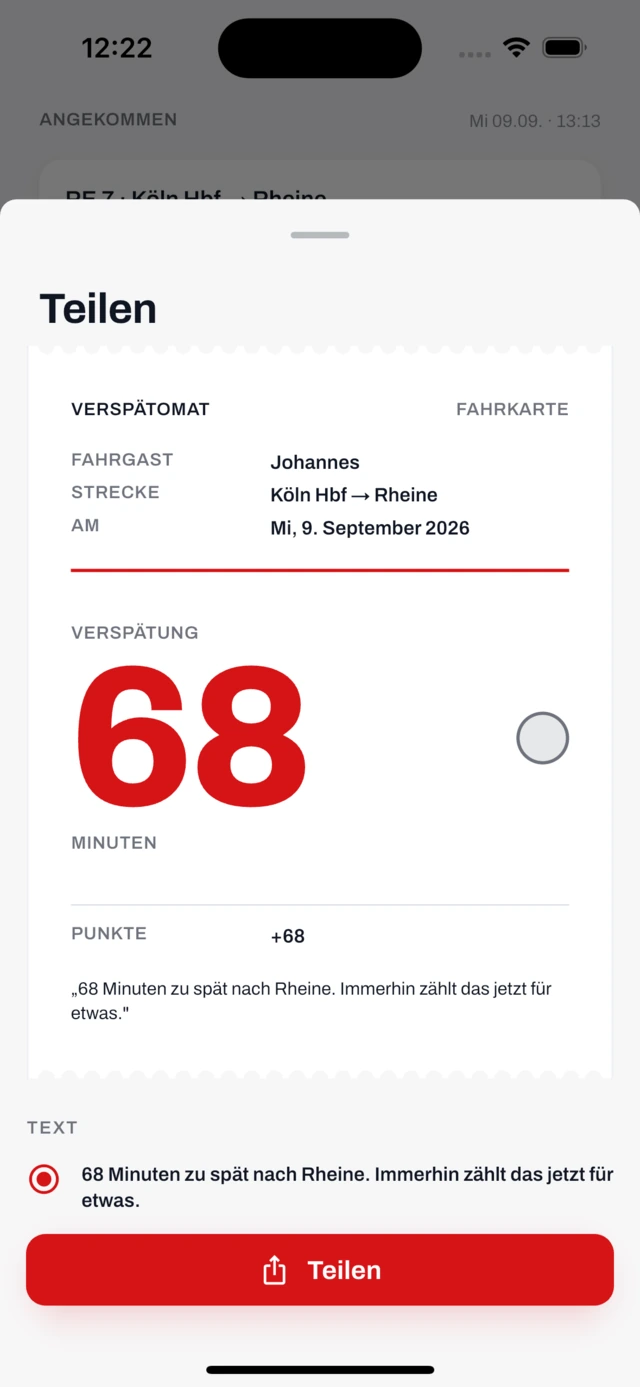
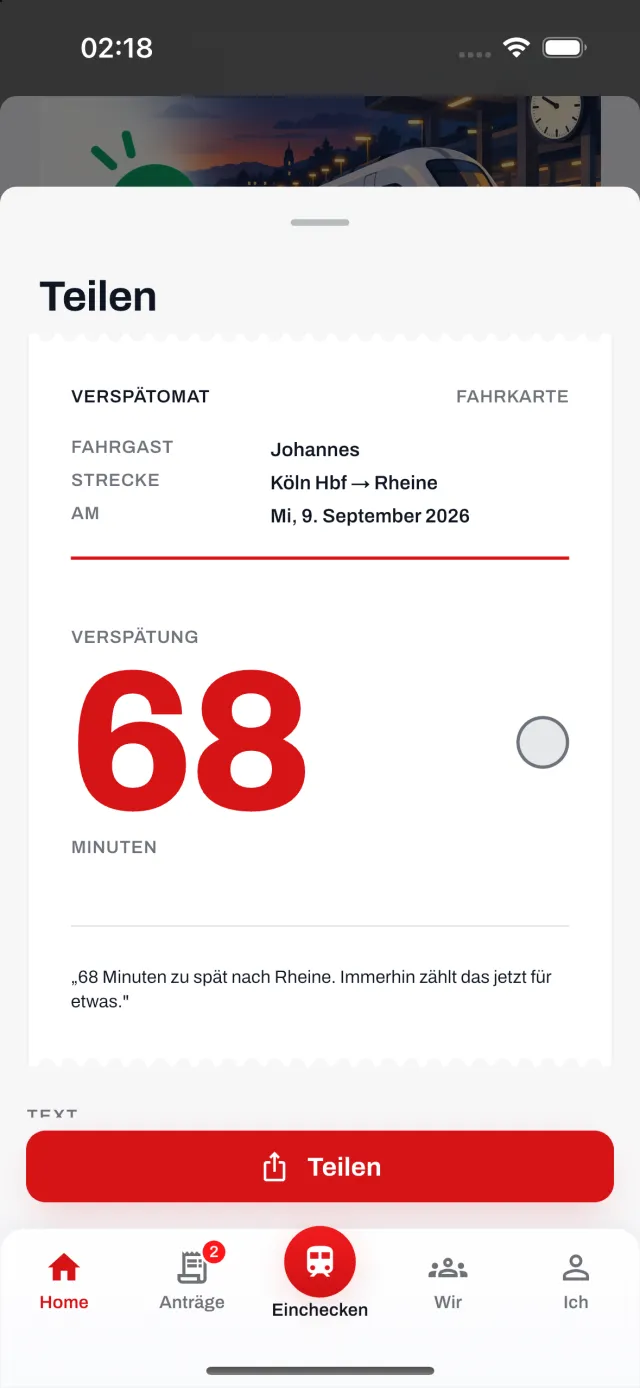
Website und Doku: nur noch Minuten (#74)
docs/47 hält die Entscheidung fest: warum, die Regel, wo die Zahl liegt,
was sich ändert. docs/12 ist nachgezogen, CLAUDE.md nennt die Regel.
Website: Texte, Rechtstexte und die Aufnahmen von Home und Fahrkarte ohne
Geduldspunkte.

Claude-Session: https://claude.ai/code/session_012DKXkSJcRX2TgT7hqozwBR

diff --git a/site/dist/datenschutz/index.html b/site/dist/datenschutz/index.html
@@ -60,7 +60,7 @@ E-Mail: info@zoom7.de. Siehe Impressum.</p>
   
   <section class="doc-abschnitt">
     <h2>Was wir speichern</h2>
-    <p>Beim Fahren: den Bahnhof, an dem du eingecheckt hast, die Position, mit der du das bestätigt hast, den Zug, den Ausstieg, die Zeiten laut Fahrplan und Live-Daten, die daraus berechneten Geduldspunkte und Abzeichen. Optional einen Anzeigenamen, den du selbst wählst.</p><p>Beim ersten Antrag, nicht früher: Name, Anschrift, deine private E-Mail-Adresse und bei Zeitkarten die Ticketnummer. Name, Anschrift und Ticketnummer stehen auf dem Antragsformular, weil das Eisenbahnunternehmen sie verlangt. Deine private E-Mail-Adresse steht nicht darauf: Im Formular steht die Verspätomat-Adresse dieses Antrags, damit die Antwort dorthin geht. Deine eigene Adresse benutzen wir nur, um dir jede Mail in Kopie zu schicken.</p><p>Pro Antrag: das Bild deines Tickets für die betroffenen Monate und deine Unterschrift (getippt oder gezeichnet). Beides landet nur im PDF und in der Mail an das Unternehmen.</p><p>Der Schriftverkehr über deine Verspätomat-Adresse: die Anträge, die du abschickst, und die Antworten des Unternehmens. Dazu unten mehr.</p><p>Einstellungen wie Ticketart, gewählter Verein, Standortmodus, stumme Bahnhöfe.</p>
+    <p>Beim Fahren: den Bahnhof, an dem du eingecheckt hast, die Position, mit der du das bestätigt hast, den Zug, den Ausstieg, die Zeiten laut Fahrplan und Live-Daten, die daraus gezählten Minuten und Abzeichen. Optional einen Anzeigenamen, den du selbst wählst.</p><p>Beim ersten Antrag, nicht früher: Name, Anschrift, deine private E-Mail-Adresse und bei Zeitkarten die Ticketnummer. Name, Anschrift und Ticketnummer stehen auf dem Antragsformular, weil das Eisenbahnunternehmen sie verlangt. Deine private E-Mail-Adresse steht nicht darauf: Im Formular steht die Verspätomat-Adresse dieses Antrags, damit die Antwort dorthin geht. Deine eigene Adresse benutzen wir nur, um dir jede Mail in Kopie zu schicken.</p><p>Pro Antrag: das Bild deines Tickets für die betroffenen Monate und deine Unterschrift (getippt oder gezeichnet). Beides landet nur im PDF und in der Mail an das Unternehmen.</p><p>Der Schriftverkehr über deine Verspätomat-Adresse: die Anträge, die du abschickst, und die Antworten des Unternehmens. Dazu unten mehr.</p><p>Einstellungen wie Ticketart, gewählter Verein, Standortmodus, stumme Bahnhöfe.</p>
   </section>
   
   <section class="doc-abschnitt">
@@ -85,7 +85,7 @@ E-Mail: info@zoom7.de. Siehe Impressum.</p>
   
   <section class="doc-abschnitt">
     <h2>Wie lange</h2>
-    <p>Fahrten, Punkte, Abzeichen und die Einträge im Konto bleiben, bis du sie löschst.</p><p>Ticketbilder, Unterschrift und die Anhänge der Antworten löschen wir, sobald ein Antrag abgeschlossen ist (bestätigt, abgelehnt oder verfallen). Wenn du unter Einstellungen „Korrespondenz nach Abschluss behalten“ einschaltest, bleiben sie, bis du es ausschaltest oder alles löschst.</p><p>Offene Ansprüche verfallen drei Monate nach der Fahrt; danach steht nur noch der Eintrag „verfallen“ im Konto.</p>
+    <p>Fahrten, Minuten, Abzeichen und die Einträge im Konto bleiben, bis du sie löschst.</p><p>Ticketbilder, Unterschrift und die Anhänge der Antworten löschen wir, sobald ein Antrag abgeschlossen ist (bestätigt, abgelehnt oder verfallen). Wenn du unter Einstellungen „Korrespondenz nach Abschluss behalten“ einschaltest, bleiben sie, bis du es ausschaltest oder alles löschst.</p><p>Offene Ansprüche verfallen drei Monate nach der Fahrt; danach steht nur noch der Eintrag „verfallen“ im Konto.</p>
   </section>
   
   <section class="doc-abschnitt">

diff --git a/site/dist/index.html b/site/dist/index.html
@@ -147,7 +147,7 @@
 </span>
         <div>
           <h3>Ankommen</h3>
-          <p>Jede Minute wird gezählt. Unter 60 Minuten gibt es Geduldspunkte. Ab 60 Minuten einen Anspruch.</p>
+          <p>Jede Minute wird gezählt. Ab 60 Minuten entsteht ein Anspruch.</p>
         </div>
       </li>
       
@@ -182,7 +182,7 @@
   </svg>
 </span>
       <h3>Deine Verspätung bewirkt etwas.</h3>
-      <p>Unter 60 Minuten gibt es Geduldspunkte. Ab 60 Minuten einen gesetzlichen Anspruch — und der geht an einen Verein, nicht an uns.</p>
+      <p>Jede Minute zählt für dich. Ab 60 Minuten entsteht ein gesetzlicher Anspruch — und der geht an einen Verein, nicht an uns.</p>
     </aside>
   </div>
 </section>
@@ -195,7 +195,7 @@
   <div class="streifen">
     
     <figure class="schuss">
-      <img src="/shots/bahnsteig.webp" alt="Der Home-Screen: 1.298 Minuten, die du selbst gewartet hast, auf einer dunklen Tafel mit einem Knopf „Teilen“, darunter der rote Knopf „Einchecken“ mit den drei Fragen „Von wo, wohin, welcher Zug“ und die Geduldspunkte dieser Woche, +96, als sieben Balken von Montag bis Sonntag." width="640" height="1387" loading="lazy" decoding="async">
+      <img src="/shots/bahnsteig.webp" alt="Der Home-Screen: 1.298 Minuten, die du selbst gewartet hast, auf einer dunklen Tafel mit einem Knopf „Teilen“, darunter der rote Knopf „Einchecken“ mit den drei Fragen „Von wo, wohin, welcher Zug“ und die Minuten dieser Woche, +96, als sieben Balken von Montag bis Sonntag." width="640" height="1387" loading="lazy" decoding="async">
       <figcaption>Ein Knopf, drei Fragen</figcaption>
     </figure>
     
@@ -210,7 +210,7 @@
     </figure>
     
     <figure class="schuss">
-      <img src="/shots/karte.webp" alt="Eine Fahrkarte zum Teilen: 68 Minuten Verspätung als große rote Zahl, darunter die Strecke Köln Hbf → Rheine, das Datum und der Satz „68 Minuten zu spät nach Rheine. Immerhin zählt das jetzt für etwas.“" width="640" height="1387" loading="lazy" decoding="async">
+      <img src="/shots/karte.webp" alt="Eine Fahrkarte zum Teilen: oben die Strecke Köln Hbf → Rheine und das Datum, darunter 68 Minuten Verspätung als große rote Zahl und der Satz „68 Minuten zu spät nach Rheine. Immerhin zählt das jetzt für etwas.“" width="640" height="1387" loading="lazy" decoding="async">
       <figcaption>Die Fahrkarte zum Teilen</figcaption>
     </figure>
     
@@ -296,7 +296,7 @@
     
     <details>
       <summary>Ab wann gibt es überhaupt Geld?</summary>
-      <p>Ab 60 Minuten Verspätung am Ziel: 25 % des Fahrpreises. Ab 120 Minuten: 50 %. Darunter gibt es keinen gesetzlichen Anspruch — dafür Geduldspunkte.</p>
+      <p>Ab 60 Minuten Verspätung am Ziel: 25 % des Fahrpreises. Ab 120 Minuten: 50 %. Darunter gibt es keinen gesetzlichen Anspruch — gezählt werden deine Minuten trotzdem.</p>
     </details>
     
     <details>

diff --git a/site/dist/loeschen/index.html b/site/dist/loeschen/index.html
@@ -47,7 +47,7 @@
   
   <section class="doc-abschnitt">
     <h2>In der App</h2>
-    <p>Einstellungen → Deine Daten → „Alles löschen“. Das löscht dein Konto und alles, was daran hängt: Fahrten, Verspätungen, Geduldspunkte, Anträge, hochgeladene Fahrkarten, deine Unterschrift, deine Adressdaten und deine Verspätomat-Mailadresse. Der Vorgang läuft sofort und ist nicht rückgängig zu machen.</p><p>Es gibt kein Konto bei uns, das danach noch übrig wäre: Verspätomat kennt dich nur über dein Gerätekonto.</p>
+    <p>Einstellungen → Deine Daten → „Alles löschen“. Das löscht dein Konto und alles, was daran hängt: Fahrten, Verspätungen, Minuten, Anträge, hochgeladene Fahrkarten, deine Unterschrift, deine Adressdaten und deine Verspätomat-Mailadresse. Der Vorgang läuft sofort und ist nicht rückgängig zu machen.</p><p>Es gibt kein Konto bei uns, das danach noch übrig wäre: Verspätomat kennt dich nur über dein Gerätekonto.</p>
   </section>
   
   <section class="doc-abschnitt">

diff --git a/docs/47-nur-minuten.md b/docs/47-nur-minuten.md
@@ -1,0 +1,58 @@
+# 47 — Nur Minuten
+
+Entschieden am 29. September 2026, Issue #74. Bis dahin gab es zwei Zahlen für dasselbe: Minuten
+und Geduldspunkte. Jetzt gibt es nur noch Minuten — in der App, auf der Website, in den
+Mitteilungen und in dieser Doku.
+
+## Warum
+
+Geduldspunkte waren „1 Punkt pro Minute Verspätung" (docs/12). Sie waren also Minuten unter
+anderem Namen, mit zwei Ausnahmen, die kaum jemand kannte. Zwei Zahlen, die fast immer gleich
+sind und manchmal nicht, lesen sich als Fehler: Home zeigte 158 Minuten, Ich 146 Geduldspunkte
+(#71). Und ein Punkt bedeutet einem Menschen nichts, eine Minute schon — jeder weiß, wie sich 68
+Minuten am Bahnsteig anfühlen. Die Abzeichen stehen für sich und brauchen keine Währung daneben.
+
+## Die Regel (`backend/src/rules.rs`, `counted_minutes`)
+
+Eine Fahrt zählt ihre **Verspätung am Ziel**, ab Minute 1. Eine Reise mit Umstieg zählt einmal,
+am Ziel, nicht pro Zug (docs/17), gedeckelt um eine selbst gewählte Pause (docs/21 §2).
+
+Die zwei Ausnahmen der Punkte sind Minuten-Regeln geworden:
+
+| Fall | Vorher | Jetzt |
+|---|---|---|
+| **Ausfall** | 60 Punkte | zählt mit mindestens **60 Minuten** — das Recht behandelt einen Ausfall wie eine Stunde Verspätung, und ein Zug, der nicht fuhr, hat keine eigene Verspätung. Die App sagt „60 Minuten angerechnet". |
+| **Nachtrag** (Fahrt nachträglich eingetragen) | 1 Punkt | zählt **seine Minuten** für einen selbst, steht als „selbst eingetragen" da und **nicht in den Ranglisten** — wie jede Fahrt ohne Standortbestätigung. Das ist der Schutz gegen erfundene Verspätungen, und er braucht keine zweite Währung. |
+| **Aufgegeben** (docs/22 §1) | Punkte fürs Warten | zählt das **Warten** auf dem Zug, auf dem aufgegeben wurde. Einen Anspruch gibt es nicht. |
+| **Nicht mitgefahren** | nichts | nichts |
+
+Die Stufen (Frischer Fahrgast … Bahnsteig-Buddha) haben ihre Schwellen jetzt in Minuten: 60, 240,
+600, 1.500, 4.000. Die Ranglisten zählen die Minuten der letzten sieben Tage, nur Fahrten mit
+Standortbestätigung.
+
+## Wo die Zahl liegt
+
+- **Datenbank:** Die Spalten `rides.points` und `journeys.points` behalten ihren Namen — so bricht
+  keine Abfrage und kein älterer Build — und tragen die **gezählten Minuten** (per
+  `comment on column` dokumentiert, Migration 0042). Die Sicht `waited_minutes` (Migration 0041,
+  #71) liest dieselbe Spalte: Jede Zahl, die „Minuten" heißt, ist eine Zahl.
+- **Draht:** Die Felder heißen `minutes_total`, `minutes_this_week`, `minutes_last_week`,
+  `minutes_by_day`, `level.minutes_to_next`, `counted_minutes` (Fahrt und Reise) und `minutes`
+  (Ranglisten). Die alten `points_*`-Felder bleiben mit denselben Werten, solange ein älterer Build
+  in TestFlight oder im Store ist (Hausregel: nur hinzufügen).
+- **App:** liest die `minutes_*`-Felder, sonst die alten eines Servers von vorher.
+
+## Was sich für Menschen ändert
+
+- Ich zeigt oben „Minuten gewartet" statt Geduldspunkte; Home und Ich zeigen dieselbe Zahl.
+- Die Ankunft sagt „68 Minuten. Alle gezählt." statt „68 Minuten. 68 Geduldspunkte.", ein Ausfall
+  „Ausgefallen. 60 Minuten angerechnet."
+- Ein Nachtrag bringt seine Minuten, nicht mehr einen Punkt. Alte Nachträge wurden umgerechnet.
+- Die Teilen-Karte zeigt nur noch die Minuten.
+- Mitteilungen: „68 Minuten gewartet." statt „68 Geduldspunkte.".
+
+## Ältere Dokumente
+
+Die Dokumente vor diesem sprechen von Geduldspunkten und Punkten. Sie sind Entscheidungen ihrer
+Zeit und bleiben so stehen; gemeint sind die gezählten Minuten dieses Dokuments. Maßgeblich für
+die Regeln ist docs/12, das nachgezogen ist.

diff --git a/docs/12-gamification.md b/docs/12-gamification.md
@@ -1,19 +1,23 @@
 # 12 — Gamification
 
-## Two currencies
+## Two figures: minutes and euros
 
-| Currency | Who earns it | How | Shown where |
+Since 29 September 2026 (#74, docs/47) there are no Geduldspunkte. There were never more than
+minutes under a second name.
+
+| Figure | Who earns it | How | Shown where |
 |---|---|---|---|
-| **Geduldspunkte** | Everyone, on every delayed ride | 1 point per minute late at the exit stop, from minute 1. A cancellation that costs you the hour counts as 60. Full points only when checked in before or during the ride; a later "Nachtrag" earns 1 point. | Home, profile, boards, community |
+| **Minuten** | Everyone, on every delayed ride | The delay at the destination, from minute 1, once per journey (docs/17). A cancellation counts at least 60. A journey given up counts the waiting (docs/22 §1). A ride entered afterwards ("Nachtrag") counts its minutes, marked „selbst eingetragen", and never ranks. | Home, profile, boards, community, sharing |
 | **Euro** | Few, on 60+ minute delays and on ordinary-ticket claims | The statutory claim amount, shown as "Anspruch" until sent, "eingereicht" after sending, "bestätigt" after the railway's reply | Ledger, NGO page, community |
 
-Minutes are the loud metric. Euros are the true metric. The community screen shows both, never blended.
+Minutes are the loud metric. Euros are the true metric. The community screen shows both, never
+blended. The rule is `rules::counted_minutes`; the backend owns it.
 
 ## Levels
 
 Named after where the customer is standing. Purely for the profile; no unlocks gated behind them.
 
-| Level | Points | Name |
+| Level | Minutes | Name |
 |---|---|---|
 | 1 | 0 | Frischer Fahrgast |
 | 2 | 60 | Bahnsteigkante |
@@ -41,7 +45,7 @@ Named after real causes and situations. Each badge names a thing that actually h
 | Bestätigt | first railway reply uploaded |
 | Deutschlandreise | check-ins in five different Bundesländer |
 | Stammgleis | 50 rides on the same line |
-| Geduld ist eine Tugend | 1,000 Geduldspunkte |
+| 1.000 Minuten … 64.000 Minuten | 1,000 minutes counted, then doubling |
 
 Badges are shown once, on the arrival screen, then live quietly on the profile. They can be shared as a card.
 
@@ -52,12 +56,12 @@ Badges that depend on the operator's stated cause (Stellwerksstörung, Personen 
 - **Meine Linie**: the seven-day patience board for one line, e.g. "RE 7 Krefeld–Rheine". Winnable, recognisable, the one people screenshot.
 - **Meine Stadt**: seven-day board per city.
 - **Deutschland**: for the curious. Never the default.
-- Boards rank only rides verified by a location fix at the station. Unverified rides still earn points and euros for the customer; they just do not rank.
+- Boards rank the counted minutes of the last seven days, and only rides verified by a location fix at the station. Unverified rides (and every Nachtrag) still count their minutes and euros for the customer; they just do not rank.
 - Everyone can hide themselves from boards with one switch.
 
 ## What we deliberately do not do
 
-- No buying points, no premium tiers, no boosts.
+- No buying minutes, no premium tiers, no boosts.
 - No teams for now. Nothing in the product points at them, not even the statistics; they can come back when there are enough customers on one line to make one.
 - No NGO campaigns with goals and deadlines. The confirmed total per NGO is the story; a finish line would need NGO-side tooling and invites fake urgency.
 - No employer matching. A sponsor's promise would be a second kind of money in a ledger that is honest precisely because it holds only one.

diff --git a/CLAUDE.md b/CLAUDE.md
@@ -1,6 +1,6 @@
 # Verspätomat — working notes for Claude and humans
 
-Gamified train check-in app for Germany. Delays earn Geduldspunkte; delays of 60 minutes or more become statutory Fahrgastrechte claims whose payee is a partner NGO. The app is a messenger, never a representative: it fills and relays, it never writes to a railway on its own. Product docs live in `docs/` (start at `docs/README.md`); the design language is `app/STYLE.md` (paper white, ink, one red, Archivo, the Bahnhofsuhr).
+Gamified train check-in app for Germany. Every minute of delay counts — minutes are the one figure, there are no points (docs/47); delays of 60 minutes or more become statutory Fahrgastrechte claims whose payee is a partner NGO. The app is a messenger, never a representative: it fills and relays, it never writes to a railway on its own. Product docs live in `docs/` (start at `docs/README.md`); the design language is `app/STYLE.md` (paper white, ink, one red, Archivo, the Bahnhofsuhr).
 
 ## Layout
 
@@ -72,7 +72,7 @@ Dart-defines: `API_URL`, `BACKEND=local`, `INITIAL_ROUTE`, `NO_LOCATION=1` (stri
 
 - **Code is English.** Identifiers, comments, doc comments — all of them. German belongs in the
   product: UI strings, copy, the docs in `docs/`, commit messages. A German term inside an English
-  sentence is fine where it names a thing that has no English name (`Geduldspunkte`, `aufgegeben`
+  sentence is fine where it names a thing that has no English name (`Fahrgastrechte`, `aufgegeben`
   as an API value).
 - **Talk to Johannes in English.**
 - **A visual change in the app is not finished until the website's screenshots are.** They live in
@@ -88,6 +88,9 @@ Dart-defines: `API_URL`, `BACKEND=local`, `INITIAL_ROUTE`, `NO_LOCATION=1` (stri
 ## Rules that are easy to break
 
 - The backend owns every money rule (`backend/src/rules.rs`); the app never recomputes amounts or readiness.
+- **Only minutes, never points** (docs/47). What a ride counts is `rules::counted_minutes`; the
+  `points` columns hold exactly that under their old name. No UI, push, website or doc text says
+  „Punkte" or „Geduldspunkte".
 - The server never guesses a location; no default station (docs/14). The native geofence layer never talks to the admin API (docs/15).
 - Station ids on the wire are ours (`vs:4711`, `backend/src/stations/`), and the MOTIS ids they
   stand for never leave the server. An id we have given out is never reused, and an id from a build

diff --git a/docs/README.md b/docs/README.md
@@ -51,7 +51,7 @@ number wins.
 | [19-ride-sheet.md](19-ride-sheet.md) | build 8 | The ride as a draggable sheet with a persistent bar, the Wir block, Welcher Zug? hierarchy |
 | [20-riding-home-zweck-ich.md](20-riding-home-zweck-ich.md) | build 9 | Riding on Home, no second check-in, the Zweck up front, Ich owns the level |
 | [21-abbruch-und-antraege.md](21-abbruch-und-antraege.md) | build 11 | Abbrechen asks why, a self-chosen pause is capped out of the claim, cases can leave a bundle |
-| [22-aufgeben-zaehlt-und-aufraeumen.md](22-aufgeben-zaehlt-und-aufraeumen.md) | build 12 | Giving up still earns Geduldspunkte, and four bits of tidying |
+| [22-aufgeben-zaehlt-und-aufraeumen.md](22-aufgeben-zaehlt-und-aufraeumen.md) | build 12 | Giving up still counts the waiting (then called Geduldspunkte, docs/47), and four bits of tidying |
 | [23-standort-und-loeschen.md](23-standort-und-loeschen.md) | build 13 | Stations ranked by what departs there, deleting a ride, noticing a forgotten one |
 | [24-einchecken-flow-und-ruhe.md](24-einchecken-flow-und-ruhe.md) | build 13 | One live station source, the check-in asks where you are, Zug wechseln, a snooze |
 | [25-geofence-v2-und-diagnose.md](25-geofence-v2-und-diagnose.md) | build 13 | Significant Location Change, a coverage disc, a 3-minute dwell, the Entwicklung page |
@@ -77,6 +77,8 @@ series later walked into the same numbers. In prose and in code comments a bare 
 | [40-store-listing.md](40-store-listing.md) | App Store privacy label, review notes, Play Data safety form, derived from the in-app Datenschutz text |
 | [41-launch-checklist.md](41-launch-checklist.md) | Launch checklist: what only Johannes can do (domain, mail provider, NGO, Apple, Google, server), ordered by lead time |
 | [42-runbook-vps-testflight.md](42-runbook-vps-testflight.md) | Step-by-step: Hetzner VPS with Docker and Caddy, then the iOS build into TestFlight, then APNs |
+| [46-staging-und-freigabe.md](46-staging-und-freigabe.md) | Staging and production: two servers, two apps, promotion only after Johannes has tested staging |
+| [47-nur-minuten.md](47-nur-minuten.md) | Only minutes: Geduldspunkte are gone, the one rule for what a ride counts |
 
 [sources.md](sources.md) lists the URLs behind the research.
 
